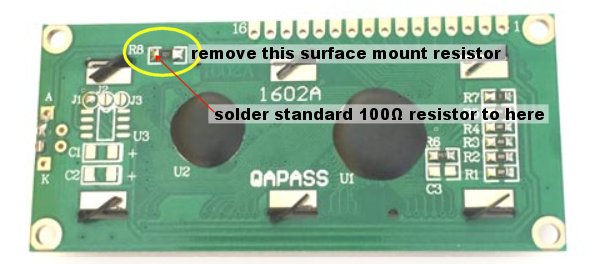
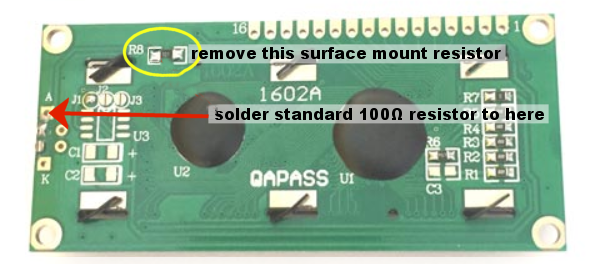
tidied up the LED bit of the README

Changed region(s): [[0.0608, 0.3636, 0.3649, 0.4848], [0.2432, 0.1818, 0.3041, 0.303], [0.3041, 0.303, 0.3345, 0.3636]]

diff --git a/README.md b/README.md
@@ -28,7 +28,7 @@ The LOLIN32 LITE has a handy battery input that goes into a voltage regulator ra
 
 The LCD display I'm using is a 1602 one based on the HD44780 controller, and an PCF8574 I2C interface.
 
-I'm using a PWM-capable output pin to drive the backlight LED, so I desoldered the on-board resistor and connected a 100Ω one to the output of a logic level converter (since it needs 5V and the PWM output pin is only 3.3v)
+I'm using a PWM-capable output pin to drive the backlight LED, so I used a logic level converter (since it needs 5V and the PWM output pin is only 3.3v) to drive it, and desoldered the on-board resistor. I think some of the I2C interfaces come with a jumper, so removing the resistor might not be required.
 
 ![resistor position](docs/1602-resistor.png)
 
